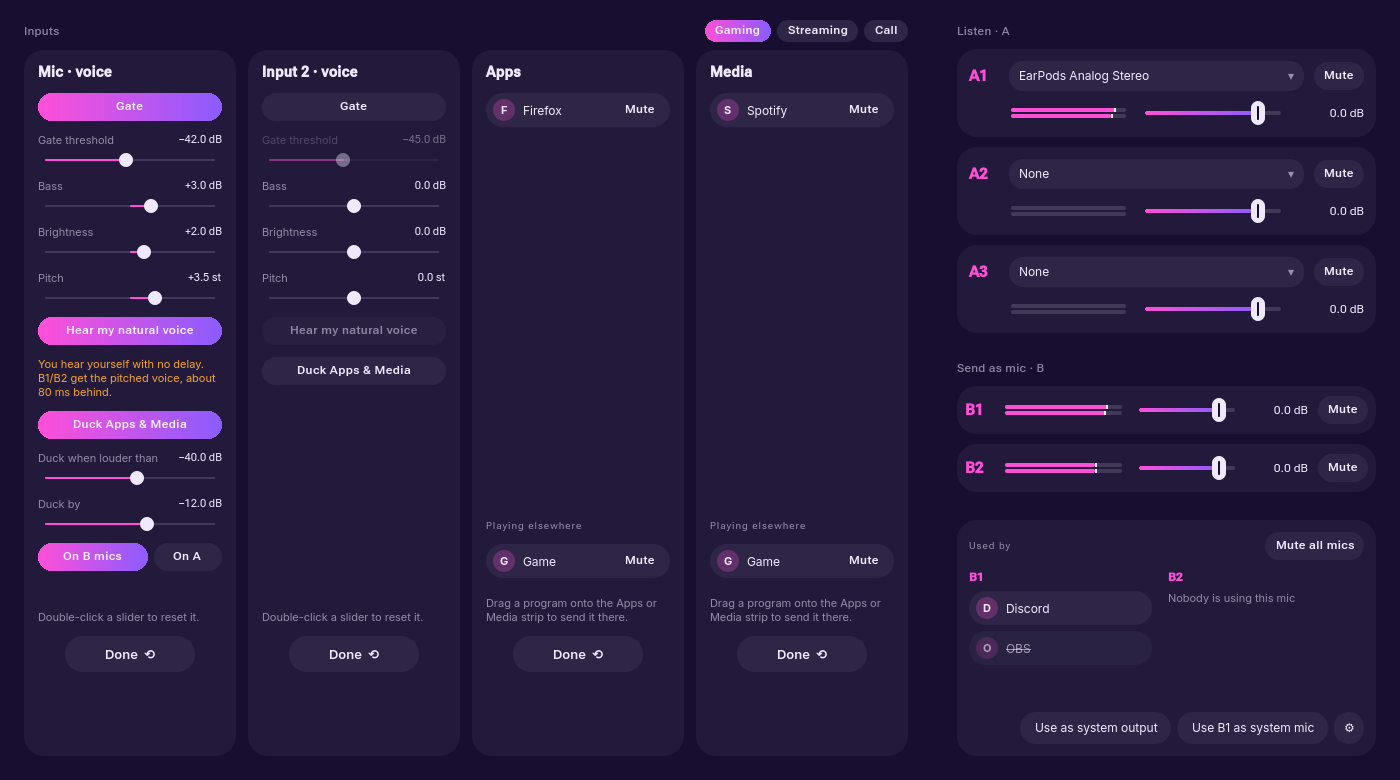
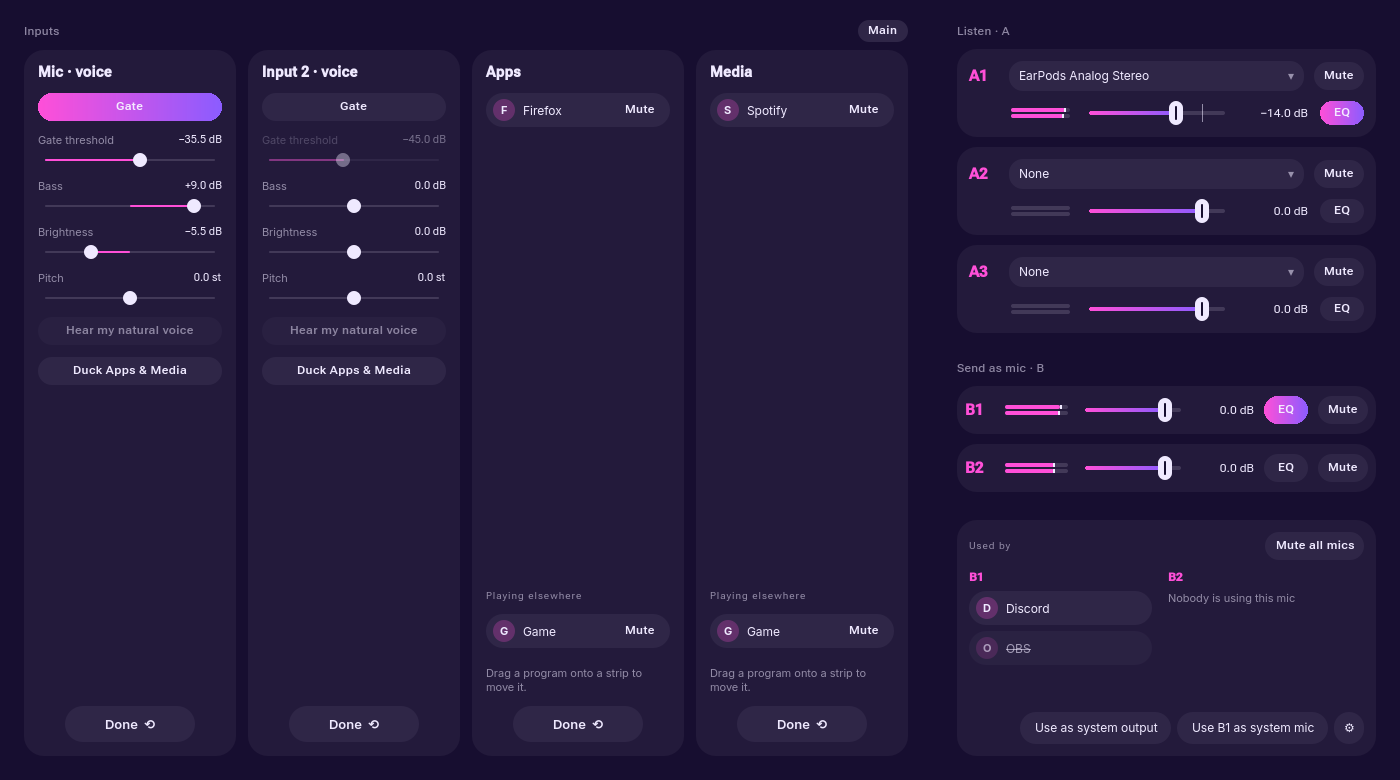
Vox Obscurus 0.2.0: taller faders, less text, README and screenshots for the parametric EQ

diff --git a/qml/StripCard.qml b/qml/StripCard.qml
@@ -1,5 +1,6 @@
 import QtQuick
 import QtQuick.Layouts
+import QtQuick.Controls.Basic
 
 // One input: where the sound comes from, how loud it is, where it goes, and voice shaping.
 Rectangle {
@@ -18,7 +19,7 @@ Rectangle {
     readonly property bool dotOn: strip.virtual_input ? playing.length > 0 : effectsOn
     property real turn: Qt.application.arguments.indexOf("--flip") >= 0 ? 180 : 0   // degrees; --flip is a dev aid for screenshots
     readonly property bool showingBack: turn >= 90
-    readonly property int flipBelow: 70   // room under the flip/Done button, for the hint text on the front
+    readonly property int flipBelow: 0
     Behavior on turn { NumberAnimation { duration: 380; easing.type: Easing.InOutCubic } }
     transform: Rotation {
         origin.x: card.width / 2
@@ -137,12 +138,26 @@ Rectangle {
             }
         }
 
-        Text {
-            text: card.app.t("Send to mic")
-            color: card.app.dim
-            font.family: card.app.mono
-            font.pixelSize: 10
-            font.letterSpacing: 1
+        RowLayout {
+            spacing: 6
+            Text {
+                text: card.app.t("Send to mic")
+                color: card.app.dim
+                font.family: card.app.mono
+                font.pixelSize: 10
+                font.letterSpacing: 1
+            }
+            // Apps carries everything, voice chat included, so warn while it goes to a mic.
+            Text {
+                visible: card.strip.virtual_input && card.isApps && card.sendsToMic
+                text: "⚠ echo"
+                color: card.app.warning
+                font.pixelSize: 10
+                font.weight: Font.DemiBold
+                HoverHandler { id: echoHover }
+                ToolTip.visible: echoHover.hovered
+                ToolTip.text: "Voice chat playing through Apps also goes into this mic, so people may hear themselves"
+            }
         }
         RowLayout {
             spacing: 6
@@ -184,36 +199,10 @@ Rectangle {
 
         Rectangle { Layout.fillWidth: true; Layout.preferredHeight: 1; color: card.app.soft ? "transparent" : card.app.line }
 
-        // Fixed height so every strip's fader lines up, with or without voice tools.
+        // Room for the flip button (pinned below, same spot on both faces).
         Item {
             Layout.fillWidth: true
-            Layout.preferredHeight: 170
-
-            // One button to the back of the strip (voice tools, or the programs using it), with a dot when
-            // something is on / playing.
-            ColumnLayout {
-                anchors.bottom: parent.bottom
-                width: parent.width
-                height: card.flipBelow
-                spacing: 8
-                Text {
-                    Layout.alignment: Qt.AlignHCenter
-                    text: card.strip.virtual_input ? (card.isApps ? "Programs on the system output" : "Programs you sent here") : "Gate · Bass · Brightness · Pitch"
-                    color: card.app.dim
-                    font.pixelSize: 11
-                }
-                Text {
-                    // Apps carries everything, voice chat included, so warn before it goes to a mic.
-                    visible: card.strip.virtual_input && card.isApps && card.sendsToMic
-                    Layout.fillWidth: true
-                    Layout.topMargin: 6
-                    horizontalAlignment: Text.AlignHCenter
-                    text: "Voice chat playing here also goes into the mic, so people may hear themselves."
-                    color: card.app.warning
-                    font.pixelSize: 11
-                    wrapMode: Text.WordWrap
-                }
-            }
+            Layout.preferredHeight: 36
         }
     }
 
@@ -390,12 +379,6 @@ Rectangle {
             }
         }
         Item { Layout.fillHeight: true }
-        Text {
-            Layout.fillWidth: true
-            text: "Double-click a slider to reset it."
-            color: card.app.dim
-            font.pixelSize: 11
-        }
     }
 
     // Back face of Apps / Media: the programs using the strip, each with its own mute.
@@ -445,7 +428,7 @@ Rectangle {
         }
         Text {
             Layout.fillWidth: true
-            text: "Drag a program onto the Apps or Media strip to send it there."
+            text: "Drag a program onto a strip to move it."
             color: card.app.dim
             font.pixelSize: 11
             wrapMode: Text.WordWrap

diff --git a/qml/SettingsPanel.qml b/qml/SettingsPanel.qml
@@ -179,7 +179,7 @@ ColumnLayout {
                 Text {
                     Layout.fillWidth: true
                     readonly property string path: decodeURIComponent((panel.app.cfg.bg_image || "").toString())
-                    text: path === "" ? "Pick a picture to put behind the mixer" : path.substring(path.lastIndexOf("/") + 1)
+                    text: path === "" ? "None" : path.substring(path.lastIndexOf("/") + 1)
                     color: panel.app.dim
                     font.pixelSize: 11
                     elide: Text.ElideMiddle
@@ -222,7 +222,7 @@ ColumnLayout {
             id: sceneName
             Layout.fillWidth: true
             Layout.preferredHeight: 32
-            placeholderText: "Name this layout (Gaming, Call, Stream…)"
+            placeholderText: "Scene name"
             placeholderTextColor: panel.app.dim
             color: panel.app.ink
             font.pixelSize: 12
@@ -282,7 +282,7 @@ ColumnLayout {
     Text {
         Layout.fillWidth: true
         visible: panel.app.scenes.length === 0
-        text: "No scenes yet. Set the mixer up, give it a name and save it; the first five show above the inputs."
+        text: "No scenes yet"
         color: panel.app.dim
         font.pixelSize: 11
         wrapMode: Text.WordWrap
@@ -300,7 +300,7 @@ ColumnLayout {
     Text {
         Layout.fillWidth: true
         visible: !panel.app.shortcutsOk
-        text: "Global shortcuts need KDE's shortcut service, which isn't available here."
+        text: "Needs KDE Plasma"
         color: panel.app.warning
         font.pixelSize: 11
         wrapMode: Text.WordWrap
@@ -322,7 +322,7 @@ ColumnLayout {
                 ColumnLayout {
                     Layout.fillWidth: true
                     spacing: 2
-                    Text { text: "Push to talk"; color: panel.app.ink; font.pixelSize: 13; font.weight: Font.DemiBold }
+                    Text { Layout.fillWidth: true; text: "Push to talk"; color: panel.app.ink; font.pixelSize: 13; font.weight: Font.DemiBold }
                 }
                 Chip {
                     app: panel.app
@@ -351,7 +351,7 @@ ColumnLayout {
                 ColumnLayout {
                     Layout.fillWidth: true
                     spacing: 2
-                    Text { text: "Mute microphones"; color: panel.app.ink; font.pixelSize: 13; font.weight: Font.DemiBold }
+                    Text { Layout.fillWidth: true; text: "Mute microphones"; color: panel.app.ink; font.pixelSize: 13; font.weight: Font.DemiBold }
                 }
                 KeyCapture { app: panel.app; key: panel.app.muteKey; onCaptured: k => panel.app.setShortcut("mute-mics", k) }
                 TextButton { app: panel.app; text: "✕"; tip: "Clear the key"; onClicked: panel.app.setShortcut("mute-mics", 0) }

diff --git a/Scripts/gen_third_party.py b/Scripts/gen_third_party.py
@@ -45,6 +45,10 @@ if pro:
   (https://opus-codec.org/license/) are kept.
 
 flacenc - Apache 2.0 - https://github.com/yotarok/flacenc-rs  (FLAC recordings)
+
+Lilv, Serd, Sord and Sratom - ISC - https://drobilla.net/software/lilv  (finds and loads LV2 plugins)
+  Used as shared libraries from your system (the lilv package), like the LV2 headers (ISC, https://lv2plug.in).
+  The plugins you load in the plugin rack are separate programs under their own licences; {app} ships none.
 """.replace("{app}", app))
 t.append("""
 RUST LIBRARIES

diff --git a/README.md b/README.md
@@ -32,6 +32,8 @@ Plasma colour scheme and follows accent changes live.
 
 ![Pure Black theme](docs/screenshots/pureblack.png)
 
+![Parametric EQ on an output](docs/screenshots/eq.png)
+
 (Screenshots use made-up programs and levels.)
 
 ## How it works
@@ -53,6 +55,10 @@ Plasma colour scheme and follows accent changes live.
   set, on the B mics and optionally on A, and come back a moment after you stop.
 - Each strip has **Solo**: while any strip is soloed, A1–A3 play only the soloed strips. The B mics
   are never affected, and solo isn't saved.
+- Every output has a **parametric EQ** (the EQ button on A1–A3, B1 and B2): six cells, each a bell,
+  shelf, pass filter or notch with its own frequency, gain and width. Drag the dots on the curve, or
+  set exact values underneath. Use it to tame a boomy room, brighten a dull headset, or shape what
+  your viewers hear.
 - Meters show a **peak-hold** tick and a **clip light** that stays lit until you click the meter.
 - The Apps strip warns you if voice chat is playing through it and also going to a mic.
 
@@ -124,6 +130,7 @@ Vox opens its stream again by itself when the device returns.
 
 - `src/engine.rs`: PipeWire streams, virtual devices, mixing and routing (runs on its own thread)
 - `src/dsp.rs`: noise gate, shelf filters and the pitch stage (SoundTouch)
+- `src/peq.rs`: the parametric EQ on the outputs
 - `src/settings.rs`: the saved layout and scenes
 - `src/shortcuts.rs`: global shortcuts through KDE's KGlobalAccel (D-Bus)
 - `src/bridge.rs`: the `Mixer` object QML talks to (JSON in, JSON out)

diff --git a/NOTES.md b/NOTES.md
@@ -1,3 +1,4 @@
-- Settings: Done button now sits on a footer strip
-- Credits and Licenses open in a pop-up
-- Shorter text in Settings
+- **Parametric EQ on every output** (the EQ button on A1-A3, B1 and B2): six cells with a curve you can drag
+- A program you drag onto Apps or Media now stays there when it starts a new song or video
+- Windows XII glass themes (light and dark)
+- Taller faders and less text on the strips and in Settings
